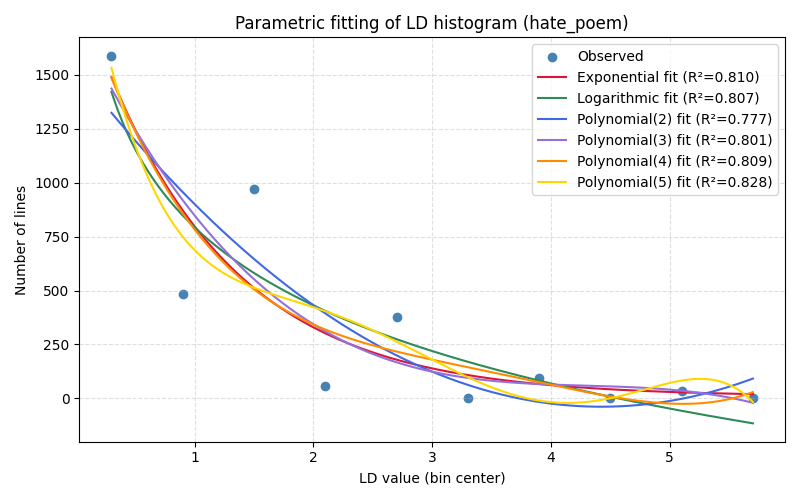
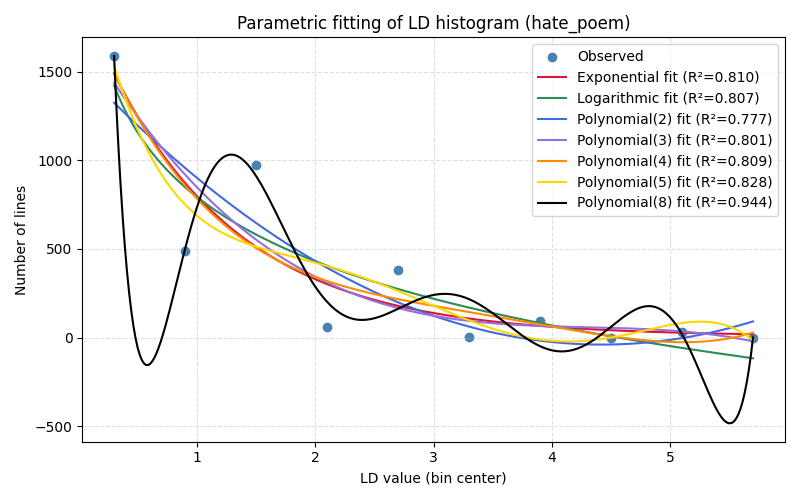
LD Parametric fit : update

diff --git a/lexical_diversity.py b/lexical_diversity.py
@@ -287,10 +287,12 @@ def parametric_fitting(bin_sub, count, title):
     poly_fit_3 = poly(x, y, 3)
     poly_fit_4 = poly(x, y, 4)
     poly_fit_5 = poly(x, y, 5)
+    poly_fit_8 = poly(x, y, 8)
     y_poly_2 = poly_fit_2(x)
     y_poly_3 = poly_fit_3(x)
     y_poly_4 = poly_fit_4(x)
     y_poly_5 = poly_fit_5(x)
+    y_poly_8 = poly_fit_8(x)
 
 
     r2_exp = r2_score(y, y_exp)
@@ -299,6 +301,7 @@ def parametric_fitting(bin_sub, count, title):
     r2_poly_3 = r2_score(y, y_poly_3)
     r2_poly_4 = r2_score(y, y_poly_4)
     r2_poly_5 = r2_score(y, y_poly_5)
+    r2_poly_8 = r2_score(y, y_poly_8)
 
     print(f"Parametric fitting for {title}")
     print(f"R² Exponential : {r2_exp:.4f}")
@@ -307,6 +310,7 @@ def parametric_fitting(bin_sub, count, title):
     print(f"R² Polynomial(3) : {r2_poly_3:.4f}")
     print(f"R² Polynomial(4) : {r2_poly_4:.4f}")
     print(f"R² Polynomial(5) : {r2_poly_5:.4f}")
+    print(f"R² Polynomial(8) : {r2_poly_8:.4f}")
 
     plt.figure(figsize=(8, 5))
     plt.scatter(x_data, y_data, label="Observed", color="steelblue")
@@ -316,6 +320,8 @@ def parametric_fitting(bin_sub, count, title):
     plt.plot(x_smooth, poly_fit_3(x_smooth), color='mediumpurple', linestyle="-", label=f'Polynomial(3) fit (R²={r2_poly_3:.3f})')
     plt.plot(x_smooth, poly_fit_4(x_smooth), color='darkorange', linestyle="-", label=f'Polynomial(4) fit (R²={r2_poly_4:.3f})')
     plt.plot(x_smooth, poly_fit_5(x_smooth), color='gold', linestyle="-", label=f'Polynomial(5) fit (R²={r2_poly_5:.3f})')
+    plt.plot(x_smooth, poly_fit_8(x_smooth), color='black', linestyle="-", label=f'Polynomial(8) fit (R²={r2_poly_8:.3f})')
+
     plt.title(f"Parametric fitting of LD histogram ({title})")
     plt.xlabel("LD value (bin center)")
     plt.ylabel("Number of lines")
